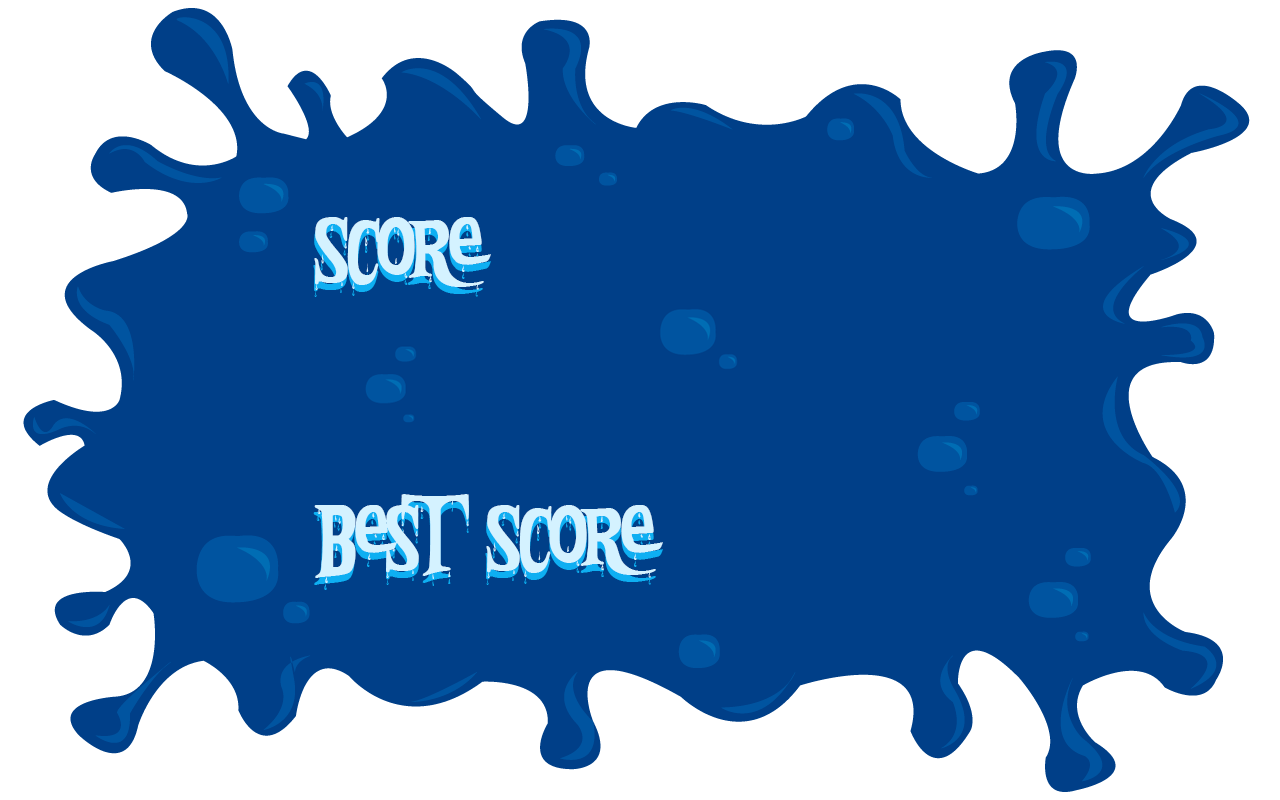
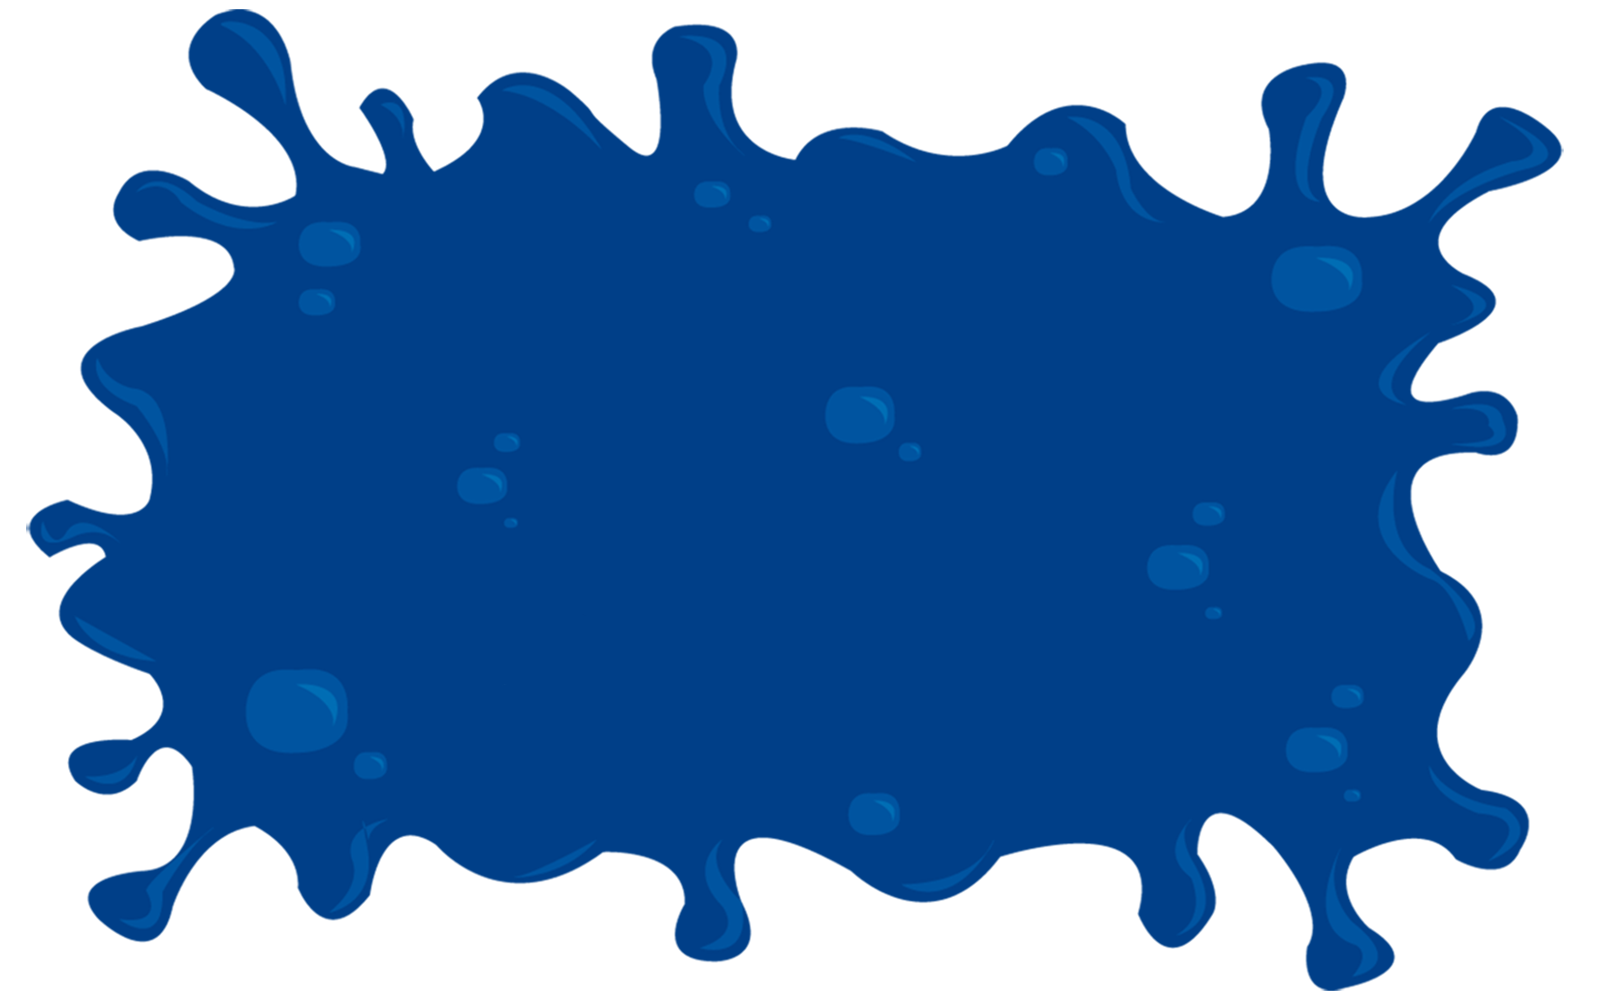
Mejoras y ajustes
Boton de musica y ajustes de la pantalla score

Changed region(s): [[0.25, 0.5938, 0.5312, 0.75], [0.2188, 0.25, 0.4062, 0.375]]

diff --git a/app/src/main/java/mx/itesm/monsterkiller/EscenaOpciones.java b/app/src/main/java/mx/itesm/monsterkiller/EscenaOpciones.java
@@ -1,12 +1,16 @@
 package mx.itesm.monsterkiller;
 
+import android.util.Log;
+
 import org.andengine.entity.scene.menu.MenuScene;
 import org.andengine.entity.scene.menu.item.IMenuItem;
 import org.andengine.entity.scene.menu.item.SpriteMenuItem;
 import org.andengine.entity.scene.menu.item.decorator.ScaleMenuItemDecorator;
 import org.andengine.entity.sprite.ButtonSprite;
 import org.andengine.entity.sprite.Sprite;
+import org.andengine.input.touch.TouchEvent;
 import org.andengine.opengl.texture.region.ITextureRegion;
+import org.andengine.opengl.texture.region.ITiledTextureRegion;
 
 /**
  * Created by Aramis on 07/10/15.
@@ -15,13 +19,15 @@ public class EscenaOpciones extends EscenaBase {
 
     // Regiones para imágenes
     private ITextureRegion regionFondo;
-    private ITextureRegion regionBtnMusicOn;
-    private ITextureRegion regionBtnMusicOff;
     private ITextureRegion regionBtnLogros;
     private ITextureRegion regionBtnScores;
 
     //Sprite para el fondo
     private Sprite spriteFondo;
+
+    // SpriteButton con estado ON/OFF
+    private ButtonSprite btnMusic;
+    private ITiledTextureRegion regionBtnMusic; // Imagen de mosaico con dos estados: normal-prendido
 
     //Menu de tipo SceneMenu
     private MenuScene menu; //contenedor de las opciones
@@ -33,8 +39,6 @@ public class EscenaOpciones extends EscenaBase {
     private final int OPCION_SCORES = 3;
 
     // Botones de cada opción
-    private ButtonSprite btnMusicOn;
-    private ButtonSprite btnMusicOff;
     private ButtonSprite btnLogros;
     private ButtonSprite btnScores;
 
@@ -44,9 +48,7 @@ public class EscenaOpciones extends EscenaBase {
     @Override
     public void cargarRecursos() {
         regionFondo = cargarImagen("FondoOpciones.jpg");
-
-        regionBtnMusicOff = cargarImagen("BotonMusicOff2.png");
-        regionBtnMusicOn = cargarImagen("BotonMusicOn2.png");
+        regionBtnMusic = cargarImagenMosaico("BotonMusic.png",381,135,1,2);
         regionBtnLogros = cargarImagen("BotonLogros2.png");
         regionBtnScores = cargarImagen("BotonScores2.png");
     }
@@ -56,6 +58,7 @@ public class EscenaOpciones extends EscenaBase {
         spriteFondo = cargarSprite(ControlJuego.ANCHO_CAMARA / 2, ControlJuego.ALTO_CAMARA / 2, regionFondo);
         attachChild(spriteFondo);
         agregarMenu();
+        agregarBtnMusic();
     }
 
     @Override
@@ -67,20 +70,39 @@ public class EscenaOpciones extends EscenaBase {
         return null;
     }
 
+    private void agregarBtnMusic() {
+
+        // Toggle button
+        btnMusic = new ButtonSprite(ControlJuego.ANCHO_CAMARA/2, ControlJuego.ALTO_CAMARA/2, regionBtnMusic,actividadJuego.getVertexBufferObjectManager()) {
+            @Override
+            public boolean onAreaTouched(TouchEvent pSceneTouchEvent, float pTouchAreaLocalX, float pTouchAreaLocalY) {
+
+                if (pSceneTouchEvent.isActionDown()) {
+                    // Cambia el índice entre 0 y 1 ed manera alternada
+                    btnMusic.setCurrentTileIndex((btnMusic.getCurrentTileIndex()+1)%2);
+                }
+                // 0-NORMAL, 1-PRESIONADO
+                Log.i("Musica", "" + btnMusic.getCurrentTileIndex());
+                return false; // Regresa falso para que Android no cambie el botón
+            }
+        };
+        // El estado inicial del botón se lee desde las preferencias o se toma un valor por default
+        // en este demo, siempre inicia prendido
+        btnMusic.setCurrentTileIndex(1);
+        registerTouchArea(btnMusic);
+        attachChild(btnMusic);
+    }
+
     private void agregarMenu(){
         //Crear el objeto que representa el menu
         menu = new MenuScene(actividadJuego.camara);
         //Centrado en la pantalla
         menu.setPosition(ControlJuego.ANCHO_CAMARA/2, ControlJuego.ALTO_CAMARA/2);
         //Crea las opciones
-        IMenuItem opcionMusicOn = new ScaleMenuItemDecorator(new SpriteMenuItem(OPCION_MUSICON, regionBtnMusicOn, actividadJuego.getVertexBufferObjectManager()), 1.5f, 1);
-        IMenuItem opcionMusicOff = new ScaleMenuItemDecorator(new SpriteMenuItem(OPCION_MUSICOFF, regionBtnMusicOff, actividadJuego.getVertexBufferObjectManager()), 1.5f, 1);
         IMenuItem opcionLogros = new ScaleMenuItemDecorator(new SpriteMenuItem(OPCION_LOGROS, regionBtnLogros, actividadJuego.getVertexBufferObjectManager()), 1.5f, 1);
         IMenuItem opcionScores = new ScaleMenuItemDecorator(new SpriteMenuItem(OPCION_SCORES, regionBtnScores, actividadJuego.getVertexBufferObjectManager()), 1.5f, 1);
 
         //Agregar las opciones
-        //menu.addMenuItem(opcionMusicOff);
-        menu.addMenuItem(opcionMusicOn);
         menu.addMenuItem(opcionLogros);
         menu.addMenuItem(opcionScores);
 
@@ -90,8 +112,6 @@ public class EscenaOpciones extends EscenaBase {
 
         // Ubicar las opciones DENTRO del menú. El centro del menú es (0,0)
 
-        opcionMusicOff.setPosition(-20, 0);
-        opcionMusicOn.setPosition(-20, 0);
         opcionLogros.setPosition(-200, -200);
         opcionScores.setPosition(200, -200);
 
@@ -102,13 +122,6 @@ public class EscenaOpciones extends EscenaBase {
                                              float pMenuItemLocalX, float pMenuItemLocalY) {
                 // El parámetro pMenuItem indica la opción oprimida
                 switch (pMenuItem.getID()) {
-                    case OPCION_MUSICOFF:
-                        // QUITAR SONIDO
-                        break;
-
-                    case OPCION_MUSICON:
-                        //PONER SONIDO
-                        break;
 
                     case OPCION_SCORES:
                         //PONER ESCENA DE SCORES

diff --git a/app/src/main/java/mx/itesm/monsterkiller/EscenaScore.java b/app/src/main/java/mx/itesm/monsterkiller/EscenaScore.java
@@ -3,6 +3,9 @@ package mx.itesm.monsterkiller;
 import android.content.Context;
 import android.content.SharedPreferences;
 
+import org.andengine.engine.handler.timer.ITimerCallback;
+import org.andengine.engine.handler.timer.TimerHandler;
+import org.andengine.entity.modifier.ScaleModifier;
 import org.andengine.entity.sprite.Sprite;
 import org.andengine.entity.text.Text;
 import org.andengine.opengl.font.IFont;
@@ -23,30 +26,55 @@ public class EscenaScore extends EscenaOpciones {
     private Text txtMarcador;
     private IFont fontMonster;
 
+    //marcador anterior
+    private Text txtAnterior;
+
+
 
 
     public void cargarRecursos() {
         regionFondo = cargarImagen("scorefin.png");
 
         // Marcador
-        fontMonster = cargarFont("Fonts/Alice and the Wicked Monster.ttf",80,0xFF00CC00,"Mejor punta:0123456789");
+        fontMonster = cargarFont("Fonts/Alice and the Wicked Monster.ttf",140,0xFFD5EDF7,"Best cor La:0123456789");
     }
 
     @Override
     public void crearEscena() {
-        spriteFondo = cargarSprite(ControlJuego.ANCHO_CAMARA / 2, ControlJuego.ALTO_CAMARA / 2, regionFondo);
-        attachChild(spriteFondo);
 
-        agregarMarcadorAlto();
+        actividadJuego.getEngine().registerUpdateHandler(new TimerHandler(0.7f,
+                new ITimerCallback() {
+                    @Override
+                    public void onTimePassed(TimerHandler pTimerHandler) {
+                        actividadJuego.getEngine().unregisterUpdateHandler(pTimerHandler);
+                        spriteFondo = cargarSprite(ControlJuego.ANCHO_CAMARA / 2, ControlJuego.ALTO_CAMARA / 2, regionFondo);
+                        ScaleModifier agrandar = new ScaleModifier(0.77f, 0, spriteFondo.getScaleX(), 0, spriteFondo.getScaleY());
+                        attachChild(spriteFondo);
+                        spriteFondo.registerEntityModifier(agrandar);
+                    }
+                }));
+
+        actividadJuego.getEngine().registerUpdateHandler(new TimerHandler(1.5f,
+                new ITimerCallback() {
+                    @Override
+                    public void onTimePassed(TimerHandler pTimerHandler) {
+                        actividadJuego.getEngine().unregisterUpdateHandler(pTimerHandler);
+                        agregarMarcadorAlto();
+                    }
+                }));
     }
 
     private void agregarMarcadorAlto() {
         // Obtener de las preferencias el marcador mayor
-        SharedPreferences preferencias = actividadJuego.getSharedPreferences("marcadorAlto", Context.MODE_PRIVATE);
-        int puntos = preferencias.getInt("puntos",0);
+        SharedPreferences preferencias = actividadJuego.getSharedPreferences("Best cor", Context.MODE_PRIVATE);
+        int puntos = preferencias.getInt("puntos", 0);
+        int actual = preferencias.getInt("actual", 0);
 
-        txtMarcador = new Text(ControlJuego.ANCHO_CAMARA/2, ControlJuego.ALTO_CAMARA/2, fontMonster,"Mejor puntaje: "+ puntos, actividadJuego.getVertexBufferObjectManager());
+        txtMarcador = new Text(ControlJuego.ANCHO_CAMARA/2, ControlJuego.ALTO_CAMARA/2 + 150, fontMonster,"Best score: "+ puntos, actividadJuego.getVertexBufferObjectManager());
         attachChild(txtMarcador);
+
+        txtAnterior = new Text(ControlJuego.ANCHO_CAMARA/2, ControlJuego.ALTO_CAMARA/2 -150, fontMonster, "Last score: " + actual, actividadJuego.getVertexBufferObjectManager());
+        attachChild(txtAnterior);
     }
 
     @Override

diff --git a/app/src/main/java/mx/itesm/monsterkiller/Monstruos.java b/app/src/main/java/mx/itesm/monsterkiller/Monstruos.java
@@ -13,6 +13,7 @@ public class Monstruos {
 
     private int DX = -10;
     private int DY = 3;
+    private int acomulador = 0;
 
     private AnimatedSprite spriteMonster;
 
@@ -35,15 +36,23 @@ public class Monstruos {
     public void movimiento() {
         if (tipo == 1){
             spriteMonster.setX(spriteMonster.getX()+ DX);
+            acomulador = acomulador + 3;
             if (spriteMonster.getX()>2550) {
                 spriteMonster.setFlippedHorizontal(false);
                 DX = DX*(-1);
             }
-            if (spriteMonster.getX()<100){
+            if (spriteMonster.getX()<100 ){
                 spriteMonster.setFlippedHorizontal(true);
                 DX = DX*(-1);
             }
+
+            //if (spriteMonster.getX()< al tamaño que va a vanza y tmb del otro lado)
+            if (acomulador >= 90){
+                spriteMonster.setX(spriteMonster.getX()+(DX*20));
+                acomulador=0;
+            }
         }
+
         if (tipo == 2){
             if (spriteMonster.getX()>2550 && spriteMonster.getY()>700){
                 spriteMonster.setPosition(spriteMonster.getX()-(DX*2), spriteMonster.getY() - DY);

diff --git a/app/src/main/java/mx/itesm/monsterkiller/EscenaNvl1.java b/app/src/main/java/mx/itesm/monsterkiller/EscenaNvl1.java
@@ -479,13 +479,14 @@ public class EscenaNvl1 extends EscenaBase implements IAccelerationListener {
     private void guardarMarcadorAlto() {
         // Abre preferencias y ve si el marcador actual es mayor que el guardado
         SharedPreferences preferencias = actividadJuego.getSharedPreferences("marcadorAlto", Context.MODE_PRIVATE);
-        int anterior = preferencias.getInt("score",0);
+        int anterior = preferencias.getInt("score", 0);
+        SharedPreferences.Editor editor = preferencias.edit();
         if (score > anterior) {
             // Nuevo valor mayor, guardarlo
-            SharedPreferences.Editor editor = preferencias.edit();
             editor.putInt("puntos", score);
-            editor.commit();
         }
+        editor.putInt("actual", score);
+        editor.commit();
     }
 
     @Override public void onAccelerationChanged(AccelerationData pAccelerationData) {

diff --git a/app/src/main/java/mx/itesm/monsterkiller/EscenaLogros.java b/app/src/main/java/mx/itesm/monsterkiller/EscenaLogros.java
@@ -1,0 +1,9 @@
+package mx.itesm.monsterkiller;
+
+/**
+ * Created by Aramis on 09/11/15.
+ */
+public class EscenaLogros extends EscenaOpciones {
+
+
+}
